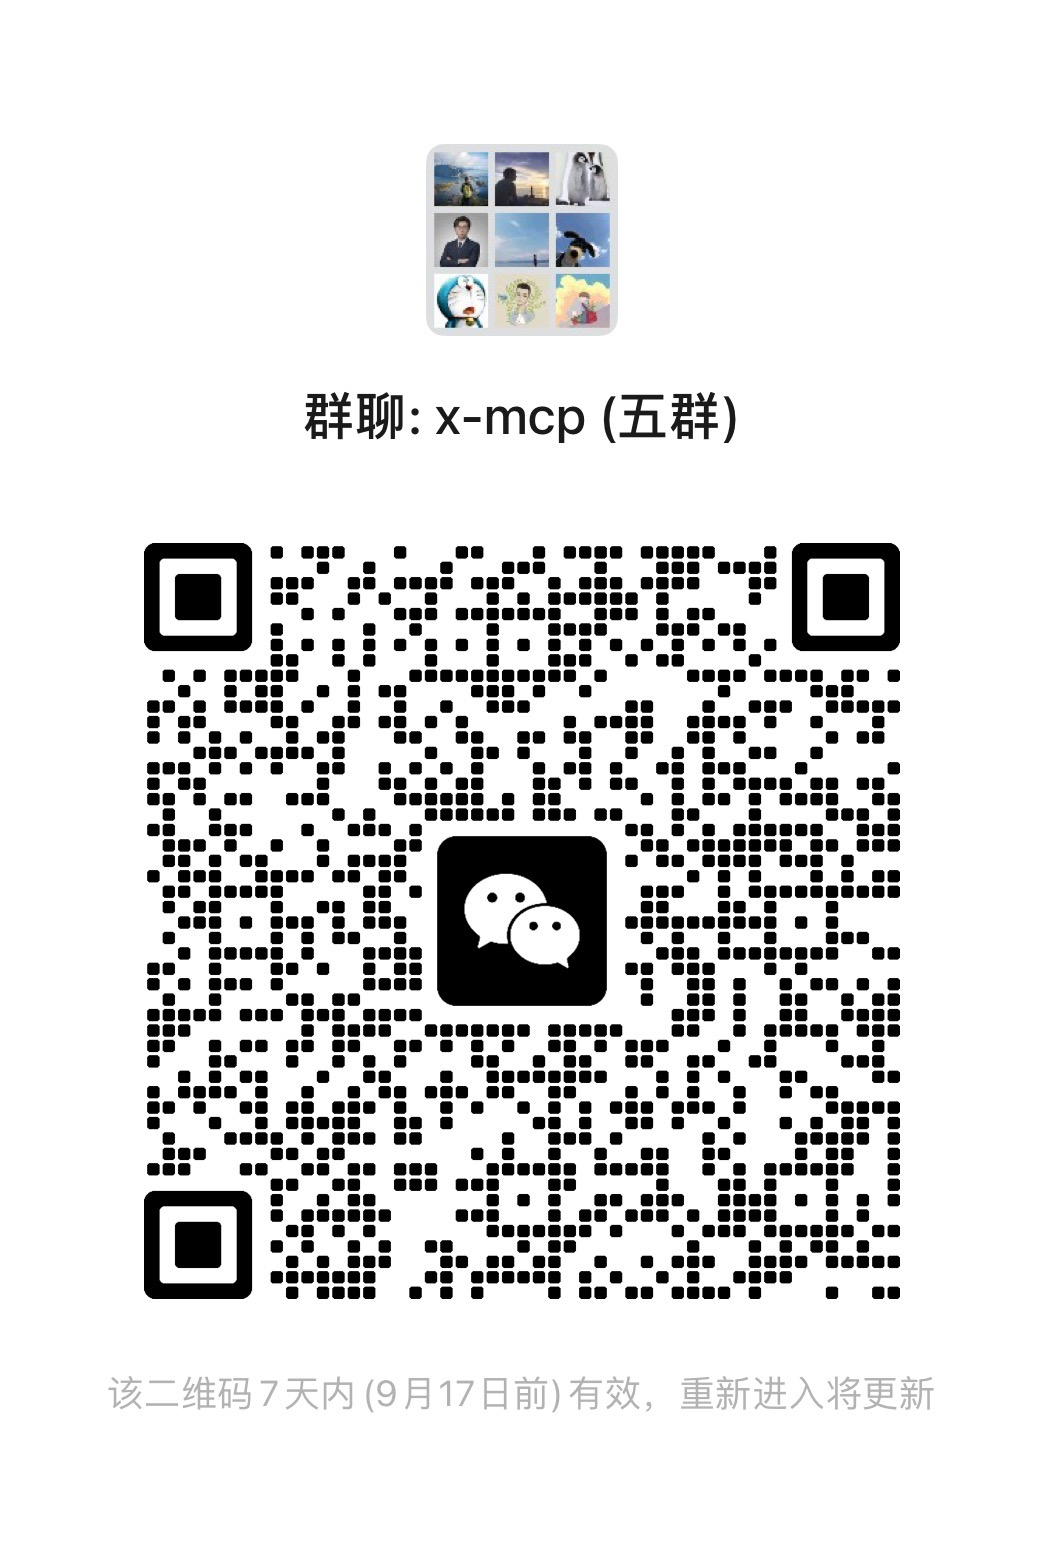
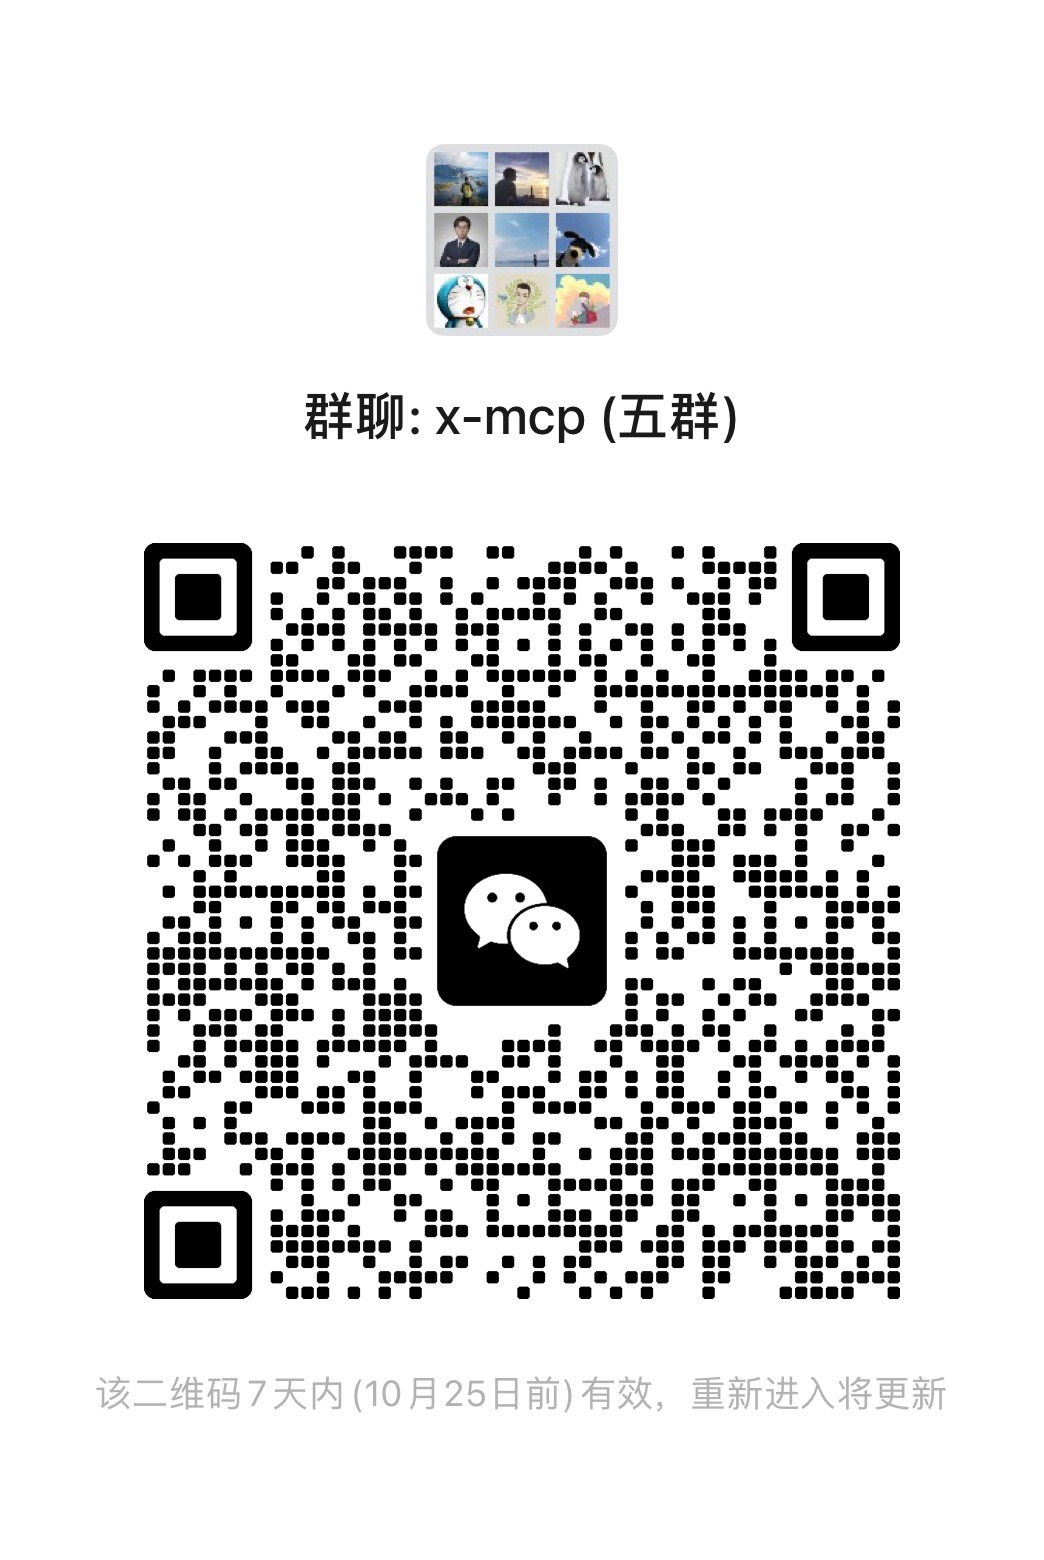
update wechat qr codes.

diff --git a/README.md b/README.md
@@ -3,6 +3,6 @@
 | <img src="https://raw.githubusercontent.com/ltzteam/images/refs/heads/main/1.JPG" width="300" /> |
 
 
-| 微信 25 | 微信 26 |
+| 微信 26 | 微信 27 |
 | :---: | :--: |
 |<img src="https://raw.githubusercontent.com/ltzteam/images/refs/heads/main/2.JPG" width="300" /> | <img src="https://raw.githubusercontent.com/ltzteam/images/refs/heads/main/3.JPG" width="300" />|
